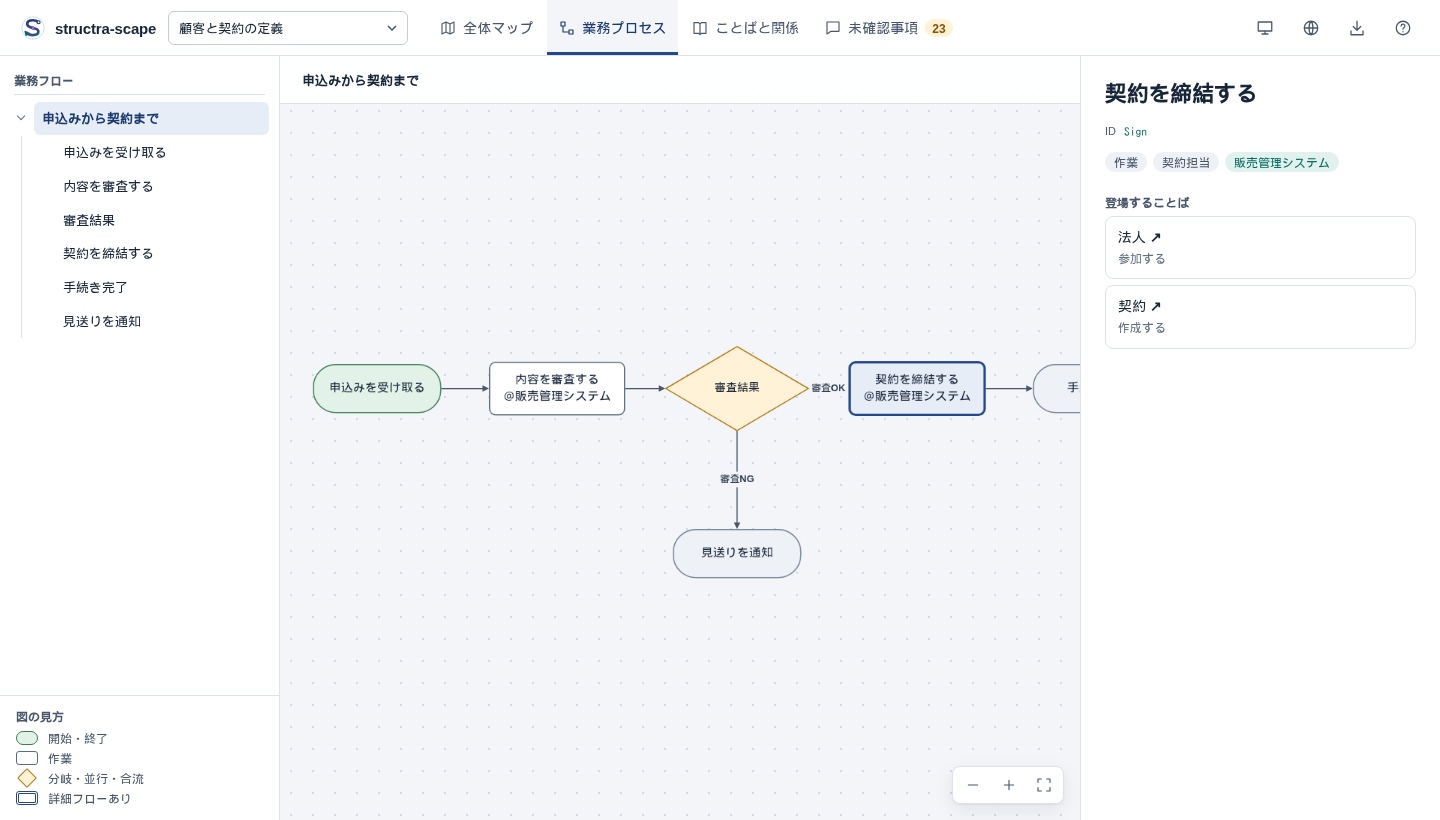
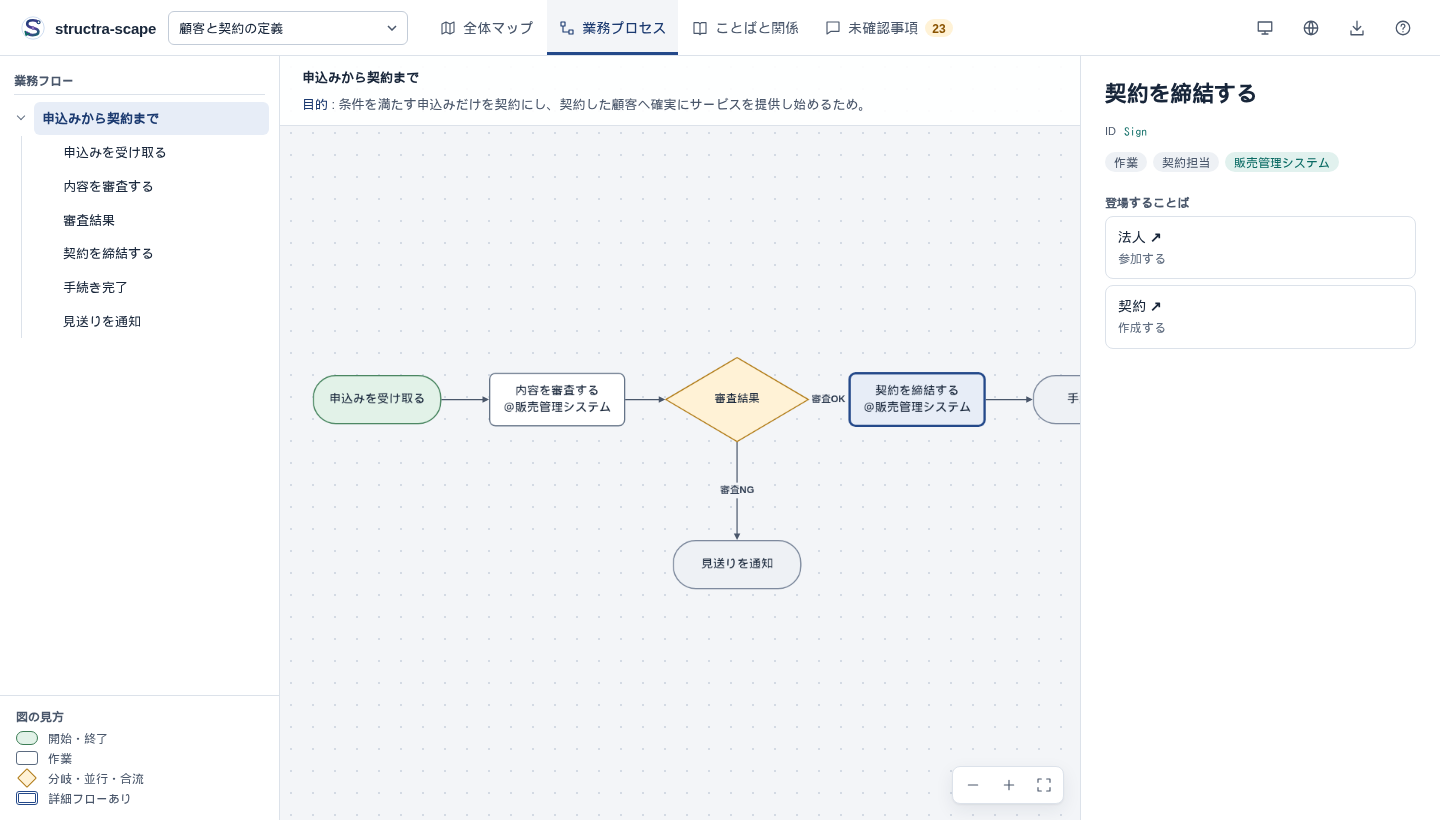
Record why each business process exists
A process can now carry a purpose: the outcome it secures and who is
affected if it stops. The steps can be read off the flow, but the purpose
usually lives only in people's heads, and held against it, steps kept out
of habit and steps missing to achieve it stand out.

- validated as a string; shown under the process name above the flow
  diagram, staying in view while a step is selected
- the open questions ask business users for a missing purpose
- diffs label it, and the SVG export writes it under the title
- samples, READMEs, the authoring and reading guides and the skill
  references record it, and tell AIs not to infer it from step names

diff --git a/src/i18n.js b/src/i18n.js
@@ -128,7 +128,7 @@ export const englishUI = {
   'ことばの定義': 'Term definition', '定義の表示内容': 'Definition sections', '意味': 'Meaning', '業務での利用': 'Process usage',
   'データとの対応': 'Data mapping', '具体例': 'Examples', '確認したいこと': 'Open question',
   '定義の確認状況': 'Review status', '含まない例': 'Excluded examples', '定義の根拠': 'Evidence',
-  '関係と分類条件': 'Relationships and classification rules', '説明はまだ記録されていません。': 'No description recorded yet.',
+  '関係と分類条件': 'Relationships and classification rules', '説明はまだ記録されていません。': 'No description recorded yet.', '目的': 'Purpose', 'まだ記録されていません。': 'Not recorded yet.',
   '案・未合意': 'Draft · not agreed', '相談中': 'Under discussion', '合意済み': 'Agreed', '未確認': 'Not reviewed',
   '確認済み': 'Verified', '対応案・未確認': 'Proposed · not verified', '未整理': 'Not recorded',
   '検討中': 'Draft', '考え中': 'Draft', '要相談': 'Needs discussion', '要確認': 'Needs review',
@@ -179,7 +179,7 @@ export const englishUI = {
   '並行開始の行き先が2つ以上ありません。': 'A parallel split needs at least two outgoing paths.', '合流する流れが2つ以上ありません。': 'A join needs at least two incoming paths.',
   '開始からたどり着けません。': 'Not reachable from the start.', '次へ進む流れがなく、終了につながっていません。': 'Dead end: no path leads on to an end.',
   '開始を記録してください。': 'Add a start step.', '終了を記録してください。': 'Add an end step.', '並行開始と合流の対応を確認してください。': 'Check that parallel splits and joins match.',
-  '作業を記録してください。': 'Record the steps.',
+  '作業を記録してください。': 'Record the steps.', '目的（purpose）を記録してください。': 'Record the purpose.',
   '業務フローでは、作業の担当、分岐・並行・合流の矢印を確認します。開始・終了を置いたフローでは、開始からたどり着けない作業と行き止まりも確認します。': 'For process flows, checks cover step owners and the paths of decisions, parallel splits and joins. Flows with a start or end are also checked for unreachable steps and dead ends.',
   '用語・関係の説明、含む例、含まない例、根拠、合意状態、未決定のケース、属性の説明と値の種類を確認します。データ対応は登録されている場合に確認します。': 'Checks cover descriptions, included and excluded examples, evidence, agreement, undecided cases, and attribute descriptions and value types for terms and relationships. Data mappings are checked when recorded.',
   '変更点': 'Changes', '比較元': 'Compared with', '追加': 'Added', '削除': 'Removed', '変更': 'Changed', 'モデル': 'Model', '流れ': 'Flow',
@@ -218,7 +218,7 @@ export const englishUI = {
   'この定義で合っていますか？': 'Is this definition right?', 'どういう値ですか？': 'What does this value mean?',
   '日付・金額・区分など、どんな種類の値ですか？': 'What kind of value is it: a date, an amount, a category…?', 'どんな区分がありますか？': 'What categories are there?',
   '「何の一種か」をたどると元に戻ってしまいます。どれが上位の分類ですか？': 'Following “a kind of” leads back to where it started. Which is the broader category?',
-  'この業務は、どんな作業で進みますか？': 'What steps does this process go through?', 'この作業は、誰が担当しますか？': 'Who does this step?',
+  'この業務は、どんな作業で進みますか？': 'What steps does this process go through?', 'この業務は、何のために行いますか？ やめると、誰が何に困りますか？': 'What is this process for? If it stopped, who would have trouble, and with what?', 'この作業は、誰が担当しますか？': 'Who does this step?',
   '判断の結果、どんな行き先がありますか？': 'Where can this decision lead?', 'どんな条件で、どちらへ進みますか？': 'Under which condition does each path apply?',
   'ここから同時に進める作業は何ですか？': 'Which steps run at the same time from here?', 'ここで、どの作業が終わるのを待ちますか？': 'Which steps must finish before this point?',
   'この作業は、どの作業の後に行いますか？': 'Which step comes before this one?', 'この作業の後は、どうなりますか？': 'What happens after this step?',

diff --git a/src/publication.js b/src/publication.js
@@ -62,5 +62,5 @@ export function publicationSvg(model, { process, date = new Date().toISOString()
   const point=id=>{const pos=positions.get(id);if(!pos)throw new Error(`Missing node: ${id}`);return {x:pos.x-minX+170,y:pos.y-minY+130}};
   const lines=edges.map((e,i)=>{const a=point(e.source),b=point(e.target),dx=b.x-a.x,dy=b.y-a.y;const f=1/Math.max(Math.abs(dx)/110,Math.abs(dy)/36,1);const end={x:b.x-dx*f,y:b.y-dy*f};return `<path d="M ${a.x} ${a.y} Q ${(a.x+b.x)/2+30*(i%2)} ${(a.y+b.y)/2-35} ${end.x} ${end.y}" fill="none" stroke="#718780" ${e.dashed?'stroke-dasharray="5 4"':''} marker-end="url(#arrow)"/><text x="${(a.x+b.x)/2}" y="${(a.y+b.y)/2-24}" text-anchor="middle" font-size="12" paint-order="stroke" stroke="white" stroke-width="4">${xml(e.label)}</text>`}).join('');
   const boxes=nodes.map(n=>{const a=point(n.id),chars=Array.from(n.name);return `<rect x="${a.x-110}" y="${a.y-36}" width="220" height="72" rx="10" fill="white" stroke="#278b88"/><text text-anchor="middle" font-size="14">${Array.from({length:Math.ceil(chars.length/14)},(_,i)=>`<tspan x="${a.x}" y="${a.y-10+i*18}">${xml(chars.slice(i*14,i*14+14).join(''))}</tspan>`).join('')}</text>`}).join('');
-  return `<svg xmlns="http://www.w3.org/2000/svg" width="${width}" height="${height}" viewBox="0 0 ${width} ${height}"><rect width="100%" height="100%" fill="white"/><style>text{font-family:system-ui,sans-serif;fill:#203d35}</style><defs><marker id="arrow" markerWidth="8" markerHeight="8" refX="7" refY="4" orient="auto"><path d="M0 0 L8 4 L0 8Z" fill="#718780"/></marker></defs><text x="24" y="32" font-size="20">${xml(p?.name||model.name)}</text><text x="24" y="58" font-size="11">${xml(model.name)} · ${xml(date)} · 出力時点のスナップショット</text>${lines}${boxes}<text x="24" y="${height-20}" font-size="11">${p?'矢印：作業の順序':'実線：関係　破線：上位概念・分類条件（ラベル参照）'}</text></svg>`;
+  return `<svg xmlns="http://www.w3.org/2000/svg" width="${width}" height="${height}" viewBox="0 0 ${width} ${height}"><rect width="100%" height="100%" fill="white"/><style>text{font-family:system-ui,sans-serif;fill:#203d35}</style><defs><marker id="arrow" markerWidth="8" markerHeight="8" refX="7" refY="4" orient="auto"><path d="M0 0 L8 4 L0 8Z" fill="#718780"/></marker></defs><text x="24" y="32" font-size="20">${xml(p?.name||model.name)}</text><text x="24" y="58" font-size="11">${xml(model.name)} · ${xml(date)} · 出力時点のスナップショット</text>${p?.purpose?`<text x="24" y="80" font-size="12">目的: ${xml(p.purpose.replace(/\s+/g,' '))}</text>`:''}${lines}${boxes}<text x="24" y="${height-20}" font-size="11">${p?'矢印：作業の順序':'実線：関係　破線：上位概念・分類条件（ラベル参照）'}</text></svg>`;
 }

diff --git a/src/templates/ontology.html b/src/templates/ontology.html
@@ -318,12 +318,17 @@ details.reader-section>summary~*{margin-left:2px}
 .tree-toggle[aria-expanded=true]::before{left:8px;top:6px;transform:rotate(45deg)}
 .branch-mark{flex-shrink:0;font-size:11px;font-weight:400;color:var(--accent)}
 .process-list .legend{margin:auto -10px 0}
-#process-breadcrumbs{position:absolute;top:0;left:0;right:0;z-index:3;display:flex;align-items:center;flex-wrap:wrap;gap:2px;min-height:48px;padding:8px 14px;background:var(--glass);border-bottom:1px solid var(--rule);font-size:13px}
+/* The bar sits above the diagram, not over it: the purpose line makes it taller. */
+.process-canvas{display:flex;flex-direction:column}
+#process-breadcrumbs{position:relative;z-index:3;display:flex;align-items:center;flex-wrap:wrap;gap:2px;min-height:48px;padding:8px 14px;background:var(--glass);border-bottom:1px solid var(--rule);font-size:13px}
 #process-breadcrumbs button{padding:4px 8px;border:0;border-radius:6px;background:none;color:var(--accent)}
 #process-breadcrumbs button:hover{background:var(--accent-soft)}
 #process-breadcrumbs button[aria-current=page]{color:var(--ink);font-weight:700}
-#process-breadcrumbs span{color:var(--ink-3)}
-#process-cy{position:absolute;inset:48px 0 0}
+#process-breadcrumbs>span{color:var(--ink-3)}
+.process-purpose{flex-basis:100%;min-width:0;max-width:880px;margin:2px 8px;color:var(--ink-2);font-size:13px;line-height:1.7}
+.process-purpose b{color:var(--accent-ink);font-weight:600}
+.process-purpose.missing span{color:var(--warn)}
+#process-cy{position:relative;flex:1;min-height:0}
 
 #process-detail>h2+.hint{margin-top:4px}
 #process-detail>p:not(.hint){margin-top:14px;color:var(--ink-2)}

diff --git a/tests/ontology.test.js b/tests/ontology.test.js
@@ -246,6 +246,22 @@ test('attributes and aliases validate, inherit, export and appear in open questi
   assert.ok(validateModel(duplicate).some(e => e.includes('aliases')));
 });
 
+test('a process records why it exists, and open questions ask for a missing purpose', () => {
+  const m = sample();
+  const p = m.processes[0];
+  assert.ok(p.purpose);
+  assert.ok(!assessCompletion(m).issues.some(i => i.kind === 'process' && i.message.includes('purpose')));
+  const before = structuredClone(m);
+  delete p.purpose;
+  const issue = assessCompletion(m).issues.find(i => i.kind === 'process' && i.id === p.id && i.message === '目的（purpose）を記録してください。');
+  assert.match(issue.ask, /何のために/);
+  assert.equal(translateUI(issue.ask, 'en'), 'What is this process for? If it stopped, who would have trouble, and with what?');
+  const change = diffModels(before, m).find(c => c.entity === 'process' && c.id === p.id);
+  assert.deepEqual(change.fields.map(f => f.field), ['purpose']);
+  assert.ok(validateOntology({ ...m, processes: [{ ...p, purpose: ['請求するため'] }] }).some(e => e.includes('purpose')));
+  assert.match(publicationSvg(before, { process: p.id }), /目的: /);
+});
+
 test('flow checks report owners, decisions, gateways, reachability and dead ends', () => {
   const m = sample();
   // Work-place questions (how data gets to a place) are covered in places.test.js.

diff --git a/src/templates/process-hierarchy.js b/src/templates/process-hierarchy.js
@@ -58,7 +58,10 @@ renderProcess = function() {
   const chain = [], seen = new Set();
   let id = activeProcess;
   while (id && !seen.has(id)) { seen.add(id); const p=all.find(x=>x.id===id); if(!p)break; chain.unshift(p); id=parents.get(id)?.process; }
-  crumbs.innerHTML=chain.map(p=>`<button data-level="${esc(p.id)}" ${p.id===activeProcess?'aria-current="page"':''}>${esc(p.name)}</button>`).join('<span aria-hidden="true">›</span>');
+  const barHeight=crumbs.offsetHeight, purpose=process()?.purpose;
+  // Why the process exists stays in view while people read its steps.
+  crumbs.innerHTML=chain.map(p=>`<button data-level="${esc(p.id)}" ${p.id===activeProcess?'aria-current="page"':''}>${esc(p.name)}</button>`).join('<span aria-hidden="true">›</span>')+(process()?`<p class="process-purpose${purpose?'':' missing'}"><b>目的</b><span aria-hidden="true"> : </span><span>${purpose?esc(purpose):'まだ記録されていません。'}</span></p>`:'');
+  if(crumbs.offsetHeight!==barHeight){pc.resize();frameProcess()}
   crumbs.querySelectorAll('button').forEach(b=>b.onclick=()=>navigateHierarchy(b.dataset.level));
   for(const s of process()?.steps || []) if(s.subprocess) pc.$id(s.id).data('label',stepLabel(s)+'\n詳細 ›').addClass('has-detail');
   if(activeStep) pc.$id(activeStep).select();

diff --git a/tests/browser.test.js b/tests/browser.test.js
@@ -97,7 +97,11 @@ test('every view of the built reader runs without page errors', async t => {
   assert.equal(await page.innerText('#detail h2'), await page.$eval('#concepts button.active', button => button.firstChild.textContent.trim()));
   // Work places: a step shows where it is done; a term shows where it is created, received and used.
   await page.click('#mode-process');
+  // The process itself says what it is for before any step is chosen.
+  await page.locator('#process-list [data-root="ContractProcess"]').click();
+  assert.match(await page.innerText('#process-breadcrumbs .process-purpose'), /条件を満たす申込みだけを契約に/);
   await page.locator('#process-list button', { hasText: '契約を締結する' }).click();
+  assert.match(await page.innerText('#process-breadcrumbs .process-purpose'), /条件を満たす申込みだけを契約に/);
   assert.equal(await page.innerText('#process-detail .step-place'), '販売管理システム');
   assert.match(await page.evaluate(() => pc.$id('Sign').data('label')), /＠販売管理システム/);
   await page.click('#mode-ontology');

diff --git a/src/diff.js b/src/diff.js
@@ -5,7 +5,7 @@ export const changeFieldLabels = {
   name: '名前', description: '説明', example: '具体例', exclusion: '含まない例', question: '確認したいこと',
   review_state: '合意状態', evidence: '根拠', cases: 'ケース', judgments: '判定', data_mapping: 'データ対応', parent: '上位概念',
   aliases: '別名', domain: '始点', range: '相手', owner: '担当', type: '種類', items: '登場することば',
-  subprocess: '詳細フロー', required: '必須', values: '区分値', label: '条件', base: 'IRI', imports: '読み込む共通定義',
+  purpose: '目的', subprocess: '詳細フロー', required: '必須', values: '区分値', label: '条件', base: 'IRI', imports: '読み込む共通定義',
   agreed_by: '合意した人', agreed_at: '合意した日', deprecated: '廃止', replaced_by: '置き換え先',
   temporal: '時間の意味', effective_from: '適用開始日', effective_to: '適用終了日', concept: '対象の概念',
   aggregation: '集計方法', attribute: '集計対象', formula: '計算式', condition: '条件', unit: '単位',

diff --git a/src/completion.js b/src/completion.js
@@ -209,6 +209,8 @@ export function completionIssueKey(issue) {
 // flow declares a start or end, because an informal sketch of steps has no defined boundary.
 function assessProcess(p, add, text) {
   const processTarget = { kind: 'process', id: p.id, name: p.name };
+  // Why the process exists is what tells a step that serves it from one that is only habit.
+  if (!text(p.purpose)) add('不足', '目的（purpose）を記録してください。', processTarget, 'この業務は、何のために行いますか？ やめると、誰が何に困りますか？');
   if (!p.steps.length) { add('不足', '作業を記録してください。', processTarget, 'この業務は、どんな作業で進みますか？'); return; }
   const outgoing = id => p.flows.filter(f => f.source === id), incoming = id => p.flows.filter(f => f.target === id);
   const strict = p.steps.some(s => s.type === 'start' || s.type === 'end');

diff --git a/src/ontology.js b/src/ontology.js
@@ -259,6 +259,7 @@ export function validateProcesses(model) {
     if (!p || !validId(p.id) || processIds.has(p.id)) { errors.push('業務フローのIDが無効または重複しています'); continue; }
     processIds.add(p.id);
     if (typeof p.name !== 'string' || !p.name.trim()) errors.push(`${p.id}: 業務名が必要です`);
+    if (p.purpose !== undefined && typeof p.purpose !== 'string') errors.push(`${p.id}.purpose: 文字列にしてください`);
     if (!Array.isArray(p.steps) || !Array.isArray(p.flows)) { errors.push(`${p.id}: steps と flows は配列にしてください`); continue; }
     const ids = new Set();
     for (const s of p.steps) {

diff --git a/README.en.md b/README.en.md
@@ -8,8 +8,8 @@
 
 - **Terms and relationships**: definitions, aliases, included and excluded examples, evidence and agreement state; how terms relate and the rules that classify them
 - **Attributes (data items)**: the values a term carries (dates, amounts, codes…) and where they live in the data
-- **Business processes**: steps in order, who does them, where (the work place: a system, a spreadsheet…), and the terms each step uses, with drill-down into detail flows
-- **Open questions**: what is missing, undecided, not yet agreed or not yet mapped to data, and gaps in the flows (owners, decision conditions, dead ends), phrased as questions business users can answer in the viewer
+- **Business processes**: what each process is for (its purpose), steps in order, who does them, where (the work place: a system, a spreadsheet…), and the terms each step uses, with drill-down into detail flows
+- **Open questions**: what is missing, undecided, not yet agreed or not yet mapped to data, and gaps in the flows (purposes, owners, decision conditions, dead ends), phrased as questions business users can answer in the viewer
 - **Changes**: how the meaning changed since the last commit, with changes to agreed definitions highlighted
 
 The YAML is the source of truth. The viewer is read-only; the model is changed by the AI or in a text editor.
@@ -117,7 +117,7 @@ strscape export models/business.yaml --format skos --output glossary.ttl   # SKO
 - **Data mappings** (when recorded): verified or not, what one row represents, the selection condition, differences from the business definition
 - **Agreement records**: an agreed definition that does not say who agreed and when
 - **Inconsistencies**: cyclic parents, contradicting cardinalities, an alias that is another term's name or alias, deprecated terms still in use
-- **Flows**: task owners, decisions with two or more labelled paths, parallel splits matched by joins; with start/end steps, steps that cannot be reached and dead ends
+- **Flows**: the purpose of each process, task owners, decisions with two or more labelled paths, parallel splits matched by joins; with start/end steps, steps that cannot be reached and dead ends
 
 No open questions does not mean the model is complete: the checks are structural. Business owners still confirm the scope and the definitions.
 
@@ -186,6 +186,7 @@ restrictions:
 processes:
   - id: ContractProcess
     name: From application to contract
+    purpose: Turn only applications that meet the conditions into contracts   # why the process exists; who suffers if it stops
     steps:
       - { id: Start, name: Receive the application, type: start }
       - id: Sign
@@ -205,6 +206,7 @@ processes:
 - **IDs** start with a letter and use letters, digits, `_` and `-`. They stay the same when a name changes. Terms and relationships share one ID space.
 - **Relationships vs. attributes**: a link between terms is a relationship (`properties`); a value such as a date or an amount is an attribute.
 - **Classification rules** (`restrictions`): `someValuesFrom` (at least one), `allValuesFrom` (all of them; does not require any), `minCardinality` / `maxCardinality` / `cardinality` (number of distinct targets). `mode: equivalent` means "this is how the term is told apart"; `necessary` means "always holds".
+- **Purpose**: why the process exists. The steps can be read off the flow, but the purpose usually lives only in people's heads; held against it, steps kept only out of habit, and steps missing to achieve it, stand out. A process without one appears in the open questions.
 - **Detail flows**: `subprocess: ReviewDetails` on a task links to another flow for drill-down. A flow has one parent; cycles are rejected.
 - **Shared definitions**: `imports: [common.yaml]` reads another file's terms, relationships and rules (read-only; processes are not imported). `strscape promote <file> <ids...> --to models/common.yaml` moves existing terms into a shared file.
 

diff --git a/src/templates/skills/shared/references/cli-recipes.md b/src/templates/skills/shared/references/cli-recipes.md
@@ -42,6 +42,7 @@ starter's example concept and process are removed in the same transaction.
     {"subject":"Customer","property":"hasContract","operator":"someValuesFrom","target":"Contract","mode":"equivalent"}
   ]},
   {"op":"upsert","entity":"process","id":"ContractProcess","value":{"name":"申込みから契約まで",
+    "purpose":"条件を満たす申込みだけを契約にし、契約した顧客へサービスを提供し始めるため。",
     "steps":[
       {"id":"Start","name":"申込みを受け取る","type":"start"},
       {"id":"Review","name":"内容を審査する","type":"task","owner":"営業担当","items":[{"concept":"Organization","role":"reads"}]},
@@ -207,7 +208,7 @@ has `role: receives`; how it is done goes in its description only as people say 
   {"op":"upsert","entity":"place","id":"SalesSystem","value":{"name":"販売管理システム","description":"申込みと契約を記録する。","owner":"営業部"}},
   {"op":"upsert","entity":"place","id":"BillingSheet","value":{"name":"請求確認シート","description":"経理部が請求前に確認するスプレッドシート。"}},
   {"op":"upsert","entity":"step","process":"ContractProcess","id":"Sign","value":{"place":"SalesSystem"}},
-  {"op":"upsert","entity":"process","id":"ContractsToBilling","value":{"name":"契約を請求確認シートへ","steps":[
+  {"op":"upsert","entity":"process","id":"ContractsToBilling","value":{"name":"契約を請求確認シートへ","purpose":"締め日の請求確認に、その月の契約をそろえるため。","steps":[
     {"id":"Start","name":"締め日を迎える","type":"start"},
     {"id":"Copy","name":"契約を請求確認シートに写す","type":"task","owner":"経理担当","place":"BillingSheet","timing":"毎月の締め日","items":[{"concept":"Contract","role":"receives"}]},
     {"id":"End","name":"写し終わる","type":"end"}
